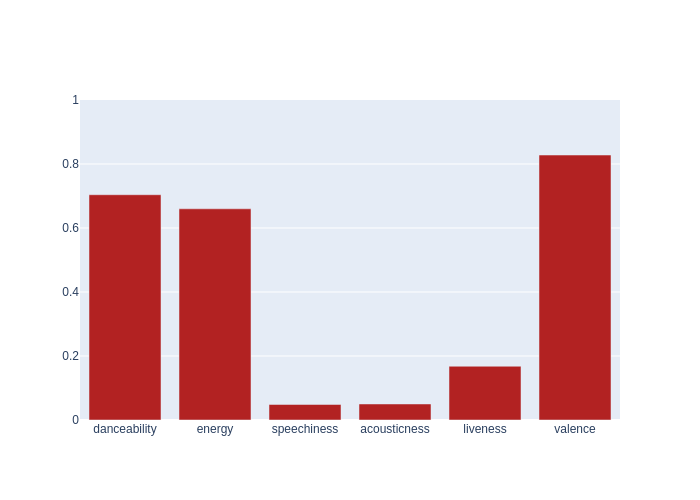
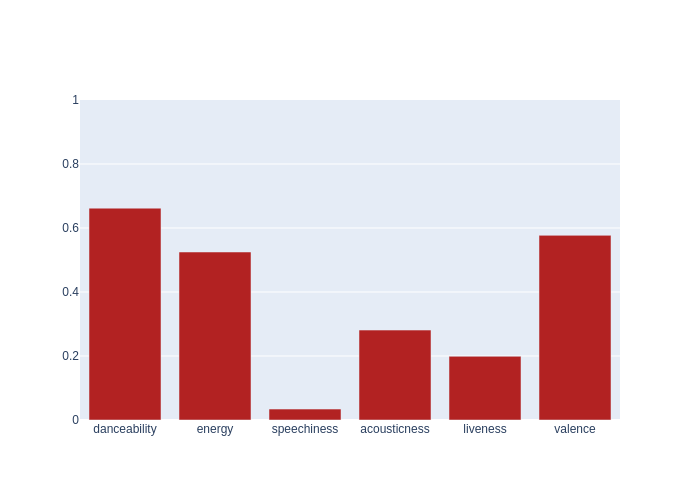
Automated README update

diff --git a/README.md b/README.md
@@ -4,7 +4,7 @@ Automated music metrics for fun, updated hourly.
 
 ## Spotify
 
-- currently listening to **Sickick - Poppin'**
+- currently listening to **Aries - FOOL'S GOLD**
 
 - **3099** liked songs
 - **32** playlists
